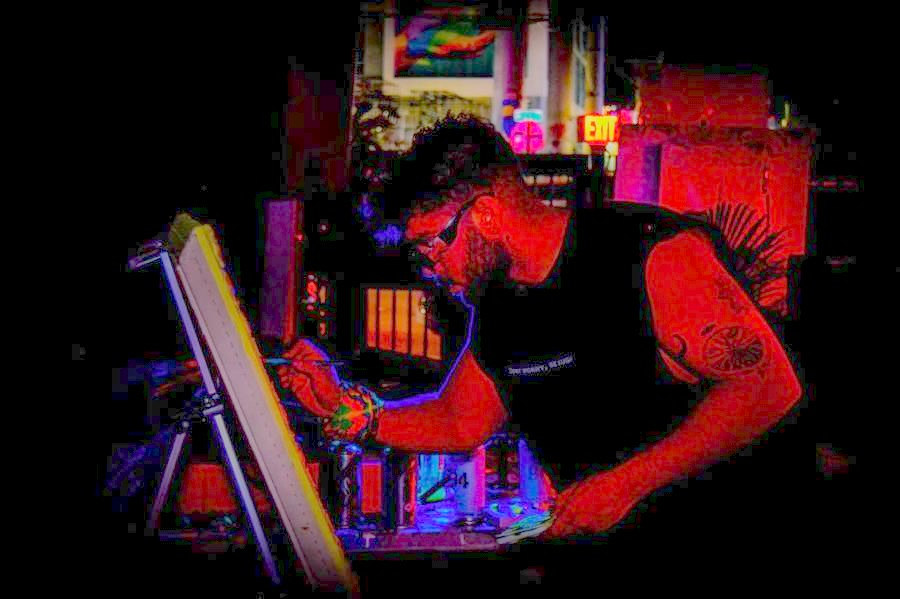
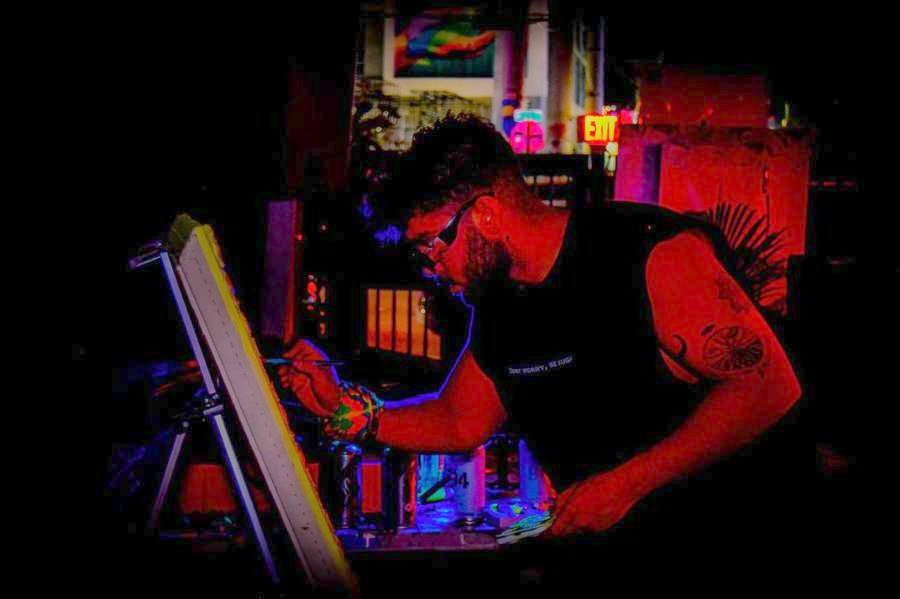
SA

diff --git a/style.css b/style.css
@@ -377,12 +377,12 @@ img.lb-thumb, video.lb-thumb { width: 76px; height: 76px; object-fit: cover; cur
 .live-event:last-child { border-bottom: none; }
 .live-event h3 { font-family: var(--display); font-size: 28px; text-transform: uppercase; letter-spacing: 0.5px; margin-bottom: 8px; line-height: 1.3; }
 .live-event-meta { font-size: 13px; color: var(--gray); margin-bottom: 18px; }
-.live-gallery { display: grid; grid-template-columns: repeat(auto-fit, minmax(200px, 1fr)); gap: 6px; }
+.live-gallery { display: grid; grid-template-columns: repeat(auto-fit, minmax(240px, 1fr)); gap: 10px; }
 .live-gallery figure { margin: 0; overflow: hidden; position: relative; }
-.live-gallery img { width: 100%; height: 220px; object-fit: cover; object-position: center; display: block; }
+.live-gallery img { width: 100%; aspect-ratio: 4/3; height: auto; object-fit: cover; object-position: center; display: block; }
 .live-gallery figcaption { font-size: 11px; color: var(--gray); margin-top: 8px; }
 .live-event.workshop { background: var(--black-2); padding: 32px; border: 1px dashed #333; border-bottom: 1px dashed #333; }
-@media (max-width: 700px) { .live-gallery { grid-template-columns: 1fr 1fr; } .live-gallery img { height: 160px; } }
+@media (max-width: 700px) { .live-gallery { grid-template-columns: 1fr 1fr; } }
 
 .mural-compare-preview { cursor: pointer; }
 .mcp-imgs { display: grid; grid-template-columns: 1fr 1fr; gap: 4px; }
@@ -550,7 +550,7 @@ footer h2 { font-family: var(--display); font-size: clamp(28px,5vw,46px); text-t
 .carousel-slide img[data-key="ig_profile_pic"] { object-position: center 13%; }
 .carousel-slide img[data-key="king_of_kings"] { object-position: center 20%; }
 .carousel-slide img[data-key="laos_california"] { object-position: center 0%; }
-.carousel-slide img[data-key="live_basel_night1"] { object-position: center 59%; }
+.carousel-slide img[data-key="live_basel_night1"] { object-position: center 55%; }
 .carousel-slide img[data-key="live_basel_night3"] { object-position: center 46%; }
 .carousel-slide img[data-key="live_otamendi_day3"] { object-position: center 0%; }
 .carousel-slide img[data-key="live_otamendi_final"] { object-position: center 36%; }

diff --git a/es/index.html b/es/index.html
@@ -105,7 +105,7 @@
 </script>
 
 <!-- Fonts self-hosted below via embedded @font-face (no external dependency) -->
-<link rel="stylesheet" href="style.css?v=94">
+<link rel="stylesheet" href="style.css?v=96">
 </head>
 <body oncontextmenu="return false;">
 

diff --git a/index.html b/index.html
@@ -104,7 +104,7 @@
 </script>
 
 <!-- Fonts self-hosted below via embedded @font-face (no external dependency) -->
-<link rel="stylesheet" href="style.css?v=94">
+<link rel="stylesheet" href="style.css?v=96">
 </head>
 <body oncontextmenu="return false;">
 
